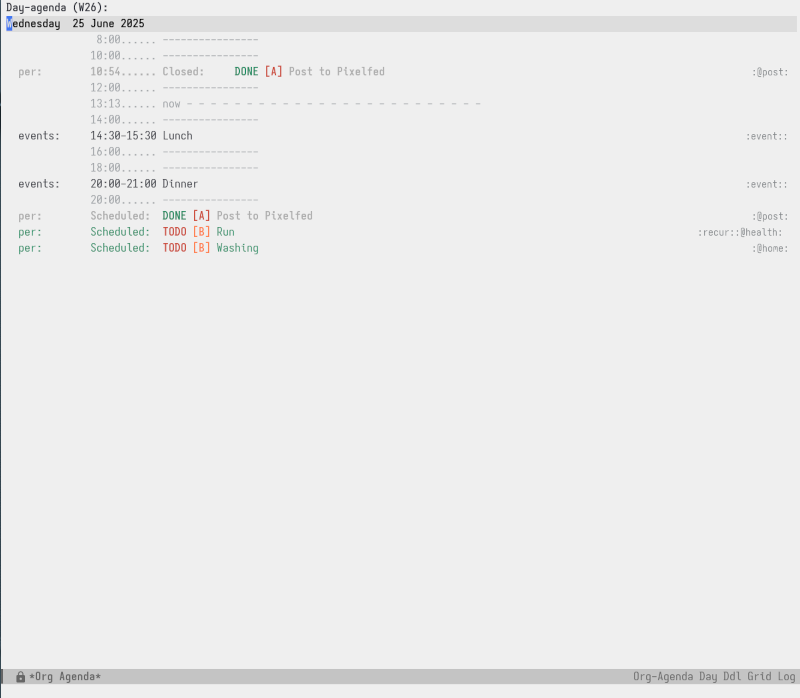
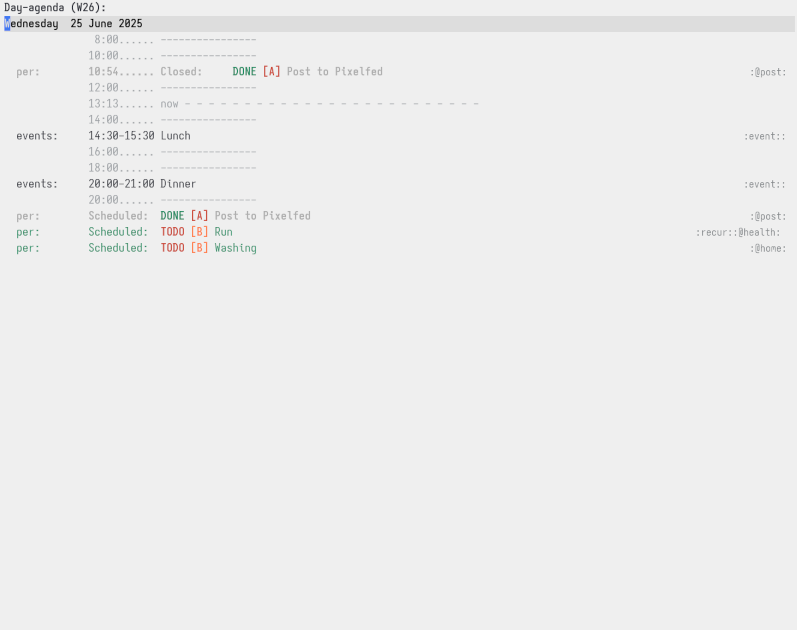
202506251446 tweaks image crops org p1

diff --git a/content/posts/2025-06-25-how-i-use-org-mode-part-one.md b/content/posts/2025-06-25-how-i-use-org-mode-part-one.md
@@ -115,6 +115,8 @@ The options I'm presented with there are;
 
 **Todo (t)**
 
+*(Nested beneath t)*
+
 **-(p) Personal**      - add a new todo to *per.org* under the heading *"INBOX:"*
 
 **-(n) NA**               - add a new todo to *work.org* under the heading *"INBOX:"*
@@ -127,11 +129,15 @@ The options I'm presented with there are;
 
 **Watch (w)**
 
+*(Nested beneath w)*
+
 **-(t) To Watch**      - films or shows I want to watch added to *watch.org*
 
 **-(d) Watched**       - when I watch something it gets logged as done with timestamp that shows on agenda views
 
 **Planning (p)**
+
+*(Nested beneath p)*
 
 **-(p) Day Plan**       - add a quick checklist to my *log.org* (Primary Objectives for the day)
 
